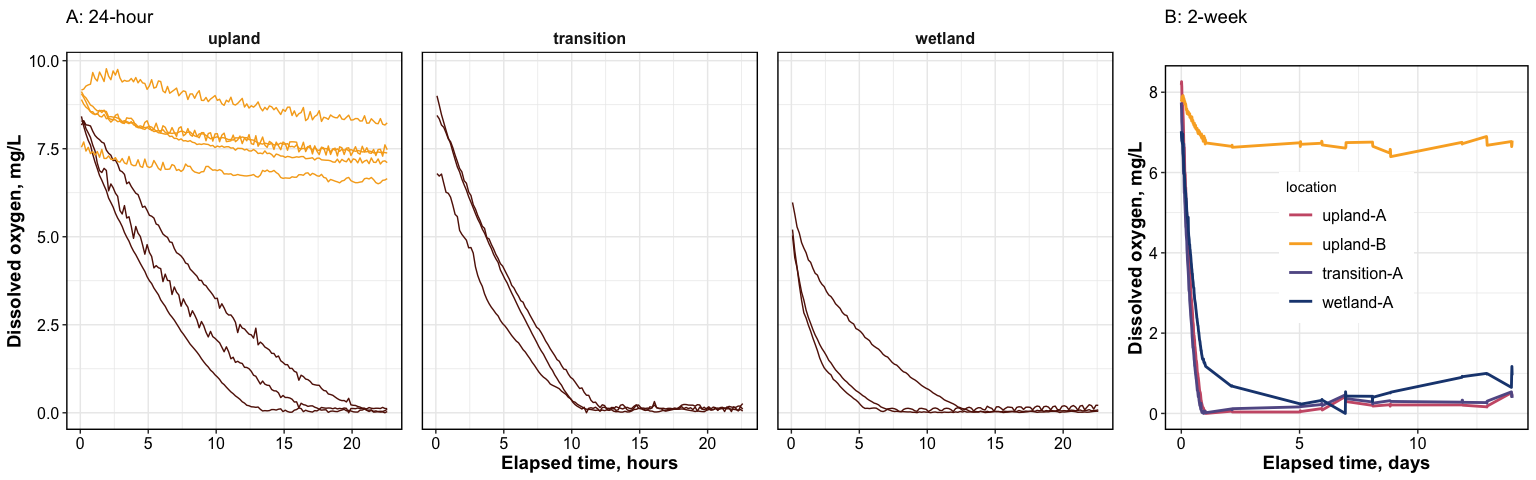
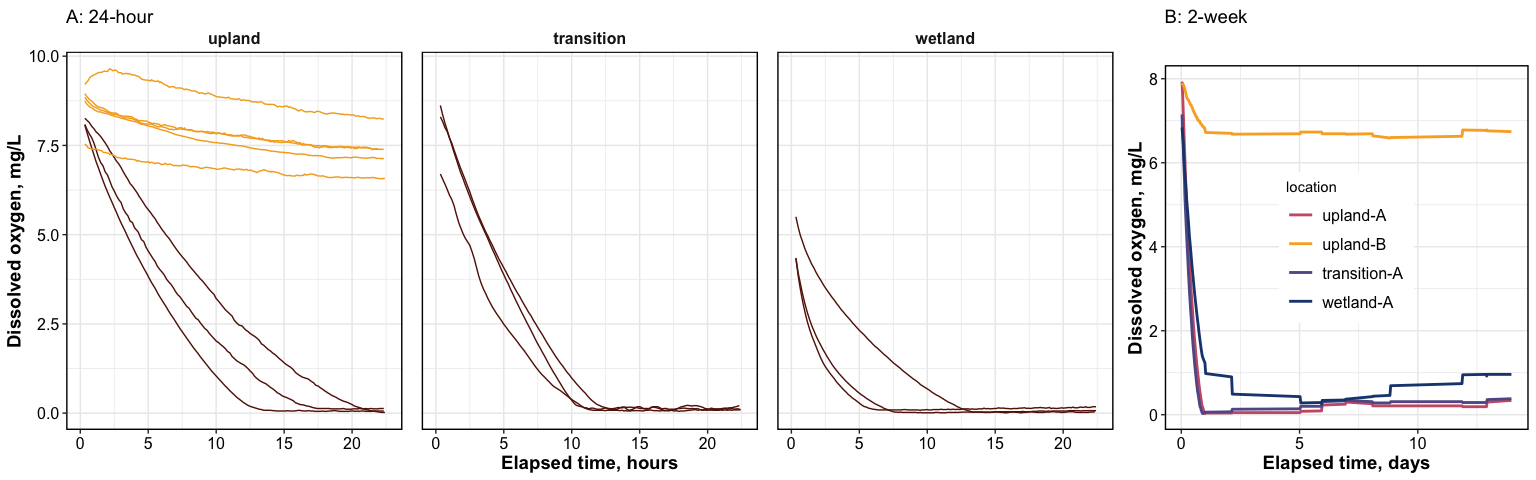
rolling means

diff --git a/3-reports/anoxia_report.md b/3-reports/anoxia_report.md
@@ -48,7 +48,7 @@ centrifuged and filtered, and analyzed for dissolved nutrients
 Session Info
 </summary>
 
-Date run: 2022-10-17
+Date run: 2023-01-06
 
     ## R version 4.2.1 (2022-06-23)
     ## Platform: x86_64-apple-darwin17.0 (64-bit)
@@ -66,28 +66,28 @@ Date run: 2022-10-17
     ## 
     ## other attached packages:
     ##  [1] googlesheets4_1.0.1 forcats_0.5.2       stringr_1.4.1      
-    ##  [4] dplyr_1.0.9         purrr_0.3.4         readr_2.1.2        
-    ##  [7] tidyr_1.2.0         tibble_3.1.8        ggplot2_3.3.6      
-    ## [10] tidyverse_1.3.2     tarchetypes_0.7.0   targets_0.13.1     
+    ##  [4] dplyr_1.0.10        purrr_0.3.4         readr_2.1.3        
+    ##  [7] tidyr_1.2.1         tibble_3.1.8        ggplot2_3.3.6      
+    ## [10] tidyverse_1.3.2     tarchetypes_0.7.2   targets_0.14.0     
     ## 
     ## loaded via a namespace (and not attached):
-    ##  [1] lubridate_1.8.0    ps_1.7.1           assertthat_0.2.1   digest_0.6.29     
-    ##  [5] utf8_1.2.2         R6_2.5.1           cellranger_1.1.0   backports_1.4.1   
-    ##  [9] reprex_2.0.2       evaluate_0.16      highr_0.9          httr_1.4.4        
-    ## [13] pillar_1.8.1       soilpalettes_0.1.0 rlang_1.0.5        curl_4.3.2        
-    ## [17] readxl_1.4.1       rstudioapi_0.14    data.table_1.14.2  callr_3.7.2       
-    ## [21] rmarkdown_2.16     labeling_0.4.2     googledrive_2.0.0  igraph_1.3.4      
-    ## [25] munsell_0.5.0      broom_1.0.0        compiler_4.2.1     modelr_0.1.9      
-    ## [29] xfun_0.32          pkgconfig_2.0.3    askpass_1.1        htmltools_0.5.3   
-    ## [33] openssl_2.0.2      tidyselect_1.1.2   codetools_0.2-18   fansi_1.0.3       
-    ## [37] crayon_1.5.1       tzdb_0.3.0         dbplyr_2.2.1       withr_2.5.0       
-    ## [41] rappdirs_0.3.3     grid_4.2.1         jsonlite_1.8.0     gtable_0.3.0      
-    ## [45] lifecycle_1.0.1    DBI_1.1.3          magrittr_2.0.3     scales_1.2.1      
-    ## [49] cli_3.3.0          stringi_1.7.8      farver_2.1.1       fs_1.5.2          
-    ## [53] xml2_1.3.3         ellipsis_0.3.2     generics_0.1.3     vctrs_0.4.1       
-    ## [57] cowplot_1.1.1      tools_4.2.1        glue_1.6.2         hms_1.1.2         
-    ## [61] fastmap_1.1.0      processx_3.7.0     yaml_2.3.5         colorspace_2.0-3  
-    ## [65] gargle_1.2.0       base64url_1.4      rvest_1.0.3        knitr_1.40        
-    ## [69] haven_2.5.1
+    ##  [1] lattice_0.20-45    lubridate_1.8.0    zoo_1.8-11         ps_1.7.1          
+    ##  [5] assertthat_0.2.1   digest_0.6.29      utf8_1.2.2         R6_2.5.1          
+    ##  [9] cellranger_1.1.0   backports_1.4.1    reprex_2.0.2       evaluate_0.16     
+    ## [13] highr_0.9          httr_1.4.4         pillar_1.8.1       soilpalettes_0.1.0
+    ## [17] rlang_1.0.5        curl_4.3.2         readxl_1.4.1       rstudioapi_0.14   
+    ## [21] data.table_1.14.4  callr_3.7.2        rmarkdown_2.16     labeling_0.4.2    
+    ## [25] googledrive_2.0.0  igraph_1.3.4       munsell_0.5.0      broom_1.0.0       
+    ## [29] compiler_4.2.1     modelr_0.1.9       xfun_0.32          pkgconfig_2.0.3   
+    ## [33] askpass_1.1        htmltools_0.5.3    openssl_2.0.2      tidyselect_1.1.2  
+    ## [37] codetools_0.2-18   fansi_1.0.3        crayon_1.5.1       tzdb_0.3.0        
+    ## [41] dbplyr_2.2.1       withr_2.5.0        rappdirs_0.3.3     grid_4.2.1        
+    ## [45] jsonlite_1.8.0     gtable_0.3.0       lifecycle_1.0.1    DBI_1.1.3         
+    ## [49] magrittr_2.0.3     scales_1.2.1       cli_3.3.0          stringi_1.7.8     
+    ## [53] farver_2.1.1       fs_1.5.2           xml2_1.3.3         ellipsis_0.3.2    
+    ## [57] generics_0.1.3     vctrs_0.4.1        cowplot_1.1.1      tools_4.2.1       
+    ## [61] glue_1.6.2         hms_1.1.2          fastmap_1.1.0      processx_3.7.0    
+    ## [65] yaml_2.3.5         colorspace_2.0-3   gargle_1.2.0       base64url_1.4     
+    ## [69] rvest_1.0.3        knitr_1.40         haven_2.5.1
 
 </details>
